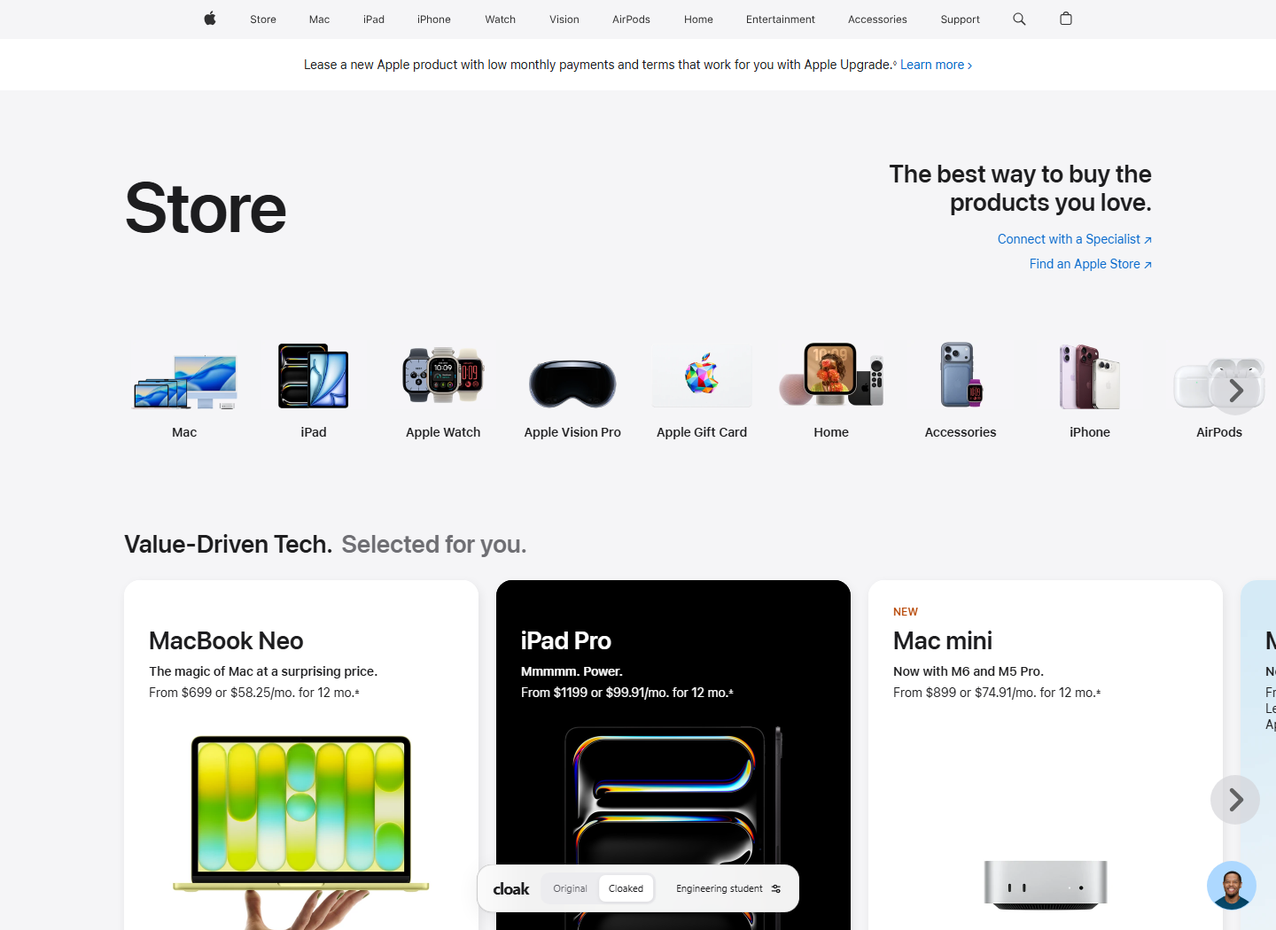
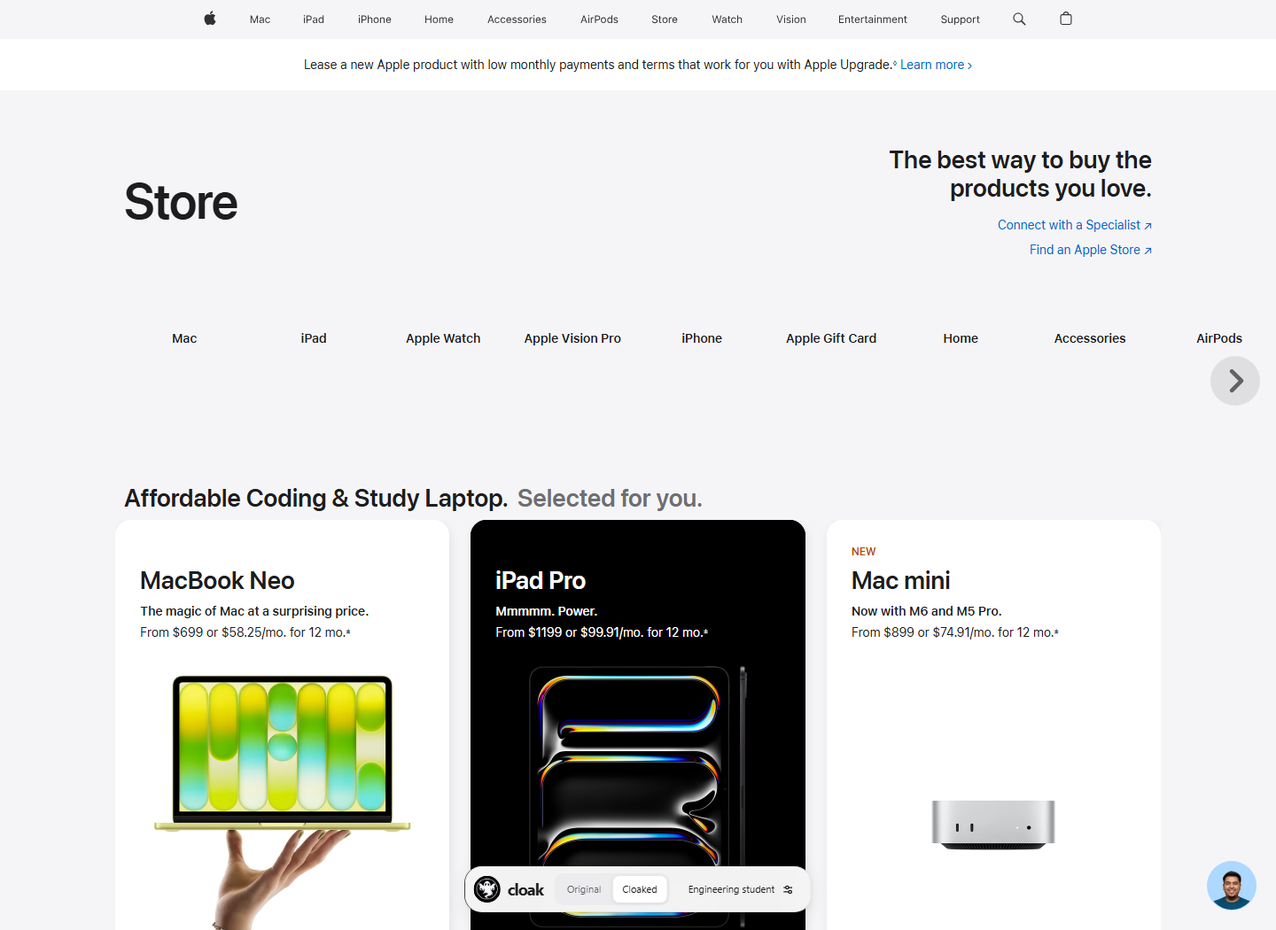
fix: restore native paging and verify adaptive layout geometry

diff --git a/tests/journeys.ts b/tests/journeys.ts
@@ -18,15 +18,21 @@ async function action(payload: any, wait = true) {
   assert.equal(response.status, 200, await response.text()); if (wait) await settled(); else await app.browser.update();
 }
 const layout = (page: Page) => page.evaluate(() => { const d = (window as any).__cloak.diagnostics(); delete d.engine; return d; });
+const gridGeometry = (page: Page) => page.locator('[data-cloak-grid]').evaluateAll(grids => grids.filter(grid => grid.getBoundingClientRect().height > 0 && getComputedStyle(grid).display !== 'none' && !grid.closest('[hidden]')).map(grid => {
+  const parent = grid.getBoundingClientRect();
+  return { columns: getComputedStyle(grid).gridTemplateColumns.split(/\s+/).length, left: parent.left, right: parent.right, cards: Array.from(grid.querySelectorAll(':scope > [data-cloak-griditem]')).filter(node => !node.hasAttribute('hidden') && getComputedStyle(node).display !== 'none').map(node => { const box = node.getBoundingClientRect(); return { left: box.left, right: box.right, top: box.top, width: box.width, height: box.height }; }) };
+}));
 const report: any[] = [];
 try {
   await app.browser.open('apple'); await settled();
   const page = app.browser.page!; await page.setViewportSize({ width: 1440, height: 1050 });
   const errors: string[] = []; page.on('pageerror', error => errors.push(error.message));
-  for (const [index, url] of ['https://www.apple.com/', 'https://www.apple.com/mac/', 'https://www.apple.com/iphone/', 'https://www.apple.com/macbook-air/', 'https://support.apple.com/', 'https://www.apple.com/accessibility/'].entries()) {
+  const journeyUrls = process.env.CLOAK_JOURNEY_URL ? [process.env.CLOAK_JOURNEY_URL] : ['https://www.apple.com/', 'https://www.apple.com/mac/', 'https://www.apple.com/iphone/', 'https://www.apple.com/macbook-air/', 'https://support.apple.com/', 'https://www.apple.com/accessibility/'];
+  for (const [index, url] of journeyUrls.entries()) {
     await action({ type: 'toggle', enabled: false }, false);
     await page.goto(url, { waitUntil: 'domcontentloaded' }); await app.browser.read(page); await settled();
     assert.equal(await page.locator('#cloak-controls').count(), 1);
+    await until(() => page.locator('#cloak-controls #brand-logo').evaluate((node: HTMLImageElement) => !node.hidden && node.complete && node.naturalWidth > 0), 'provided Cloak logo');
     const original = await layout(page), inventory = app.browser.inventory!;
     assert.ok(inventory.groups!.length >= 2, `Discover native groups: ${url}`);
     await page.evaluate(() => {
@@ -35,11 +41,14 @@ try {
       win.__nativeLinks = Array.from(document.querySelectorAll<HTMLAnchorElement>('main a[href],[role=main] a[href]')).map(a => ({ href: a.href, text: a.textContent }));
       win.__sample = Array.from(document.querySelectorAll<HTMLElement>('main p,[role=main] p')).find(n => { const size = parseFloat(getComputedStyle(n).fontSize); return size >= 12 && size <= 24 && n.textContent!.length > 8 && !n.closest('nav,[hidden]'); });
       win.__sampleSize = win.__sample ? parseFloat(getComputedStyle(win.__sample).fontSize) : null;
+      win.__originalDocumentWidth = document.documentElement.scrollWidth;
     });
     const profiles: any[] = [];
     for (const id of ['engineer', 'grandma']) {
       await action({ type: 'profile', id }); await action({ type: 'toggle', enabled: true });
       const plan = structuredClone(app.state().plan!), actual = await layout(page);
+      assert.equal(plan.presentation?.layout, id === 'grandma' ? 'guided' : 'compare', `Needs determine layout strategy: ${url}`);
+      assert.equal(actual.layout, plan.presentation!.layout, `Layout is applied to the actual page: ${url}`);
       assert.ok(actual.connected, 'All native registered nodes retain identity');
       for (const group of inventory.groups!) {
         const order = group.type === 'sections' ? plan.sectionOrder : group.type === 'categories' ? plan.categoryOrder : plan.sectionOrder.flatMap(id => plan.itemOrders[id]);
@@ -47,11 +56,21 @@ try {
       }
       assert.notDeepEqual(actual.groups, original.groups, `Page visibly restructures for ${id}: ${url}`);
       assert.equal(await page.evaluate(() => (window as any).__nativeSections.every((n: Node) => n.isConnected)), true);
+      const desktopGeometry = await gridGeometry(page);
+      if (inventory.groups!.some(group => group.type === 'items')) {
+        assert.ok(actual.grids > 0 && desktopGeometry.length > 0, `Native cards form actual visible grids: ${url}`);
+        assert.ok(desktopGeometry.some(grid => grid.columns === (id === 'grandma' ? 2 : 3) && grid.cards.length >= 2), `Native card geometry follows the selected layout: ${url}`);
+        for (const grid of desktopGeometry) for (const card of grid.cards) {
+          assert.ok(card.width > 40 && card.height > 0, `Native cards retain visible geometry: ${url}`);
+          assert.ok(card.left >= grid.left - 2 && card.right <= grid.right + 2, `Cards fit their native grid: ${url}`);
+        }
+      }
+      assert.ok(await page.evaluate(() => document.documentElement.scrollWidth <= Math.max(window.innerWidth, (window as any).__originalDocumentWidth) + 1), `Personalization adds no document overflow: ${url}`);
       if (id === 'grandma') {
-        assert.deepEqual(plan.presentation, { reading: 'larger', density: 'focused' });
+        assert.deepEqual(plan.presentation, { reading: 'larger', density: 'focused', layout: 'guided', maxVisible: 2 });
         const size = await page.evaluate(() => { const w = window as any; return !w.__sample || parseFloat(getComputedStyle(w.__sample).fontSize) > w.__sampleSize; });
         assert.ok(size, `Larger body copy: ${url}`);
-        const disclosure = page.locator('[data-cloak-disclosure] button').first();
+        const disclosure = page.locator('[data-cloak-disclosure] button').filter({ visible: true }).first();
         if (await disclosure.count()) {
           const before = await page.locator('[hidden]').count(); await disclosure.click();
           assert.equal(await disclosure.getAttribute('aria-expanded'), 'true');
@@ -63,24 +82,32 @@ try {
           assert.equal(await page.getByRole('tab', { name: /^Laptops\b/ }).getAttribute('aria-selected'), 'true', 'Native product tabs work');
           await page.getByRole('tab', { name: /^All products\b/ }).click();
           const gallery = page.locator('div[class*="StickyFooterGallery_gallery__"]').filter({ visible: true }).first();
-          const viewport = gallery.locator('[data-rsc-scrollable]');
-          await gallery.getByRole('button', { name: /^Next/ }).click();
-          await until(async () => await viewport.evaluate(node => node.scrollLeft) > 20, 'native Mac lineup next button');
-          await page.waitForTimeout(700);
-          const scrolled = await viewport.evaluate(node => node.scrollLeft);
-          await gallery.getByRole('button', { name: /^Previous/ }).click();
-          await until(async () => await viewport.evaluate(node => node.scrollLeft) < scrolled, 'native Mac lineup previous button');
+          if (await gallery.locator('[data-cloak-grid]').count()) {
+            assert.equal(await gallery.getByRole('button', { name: /^Next/ }).isVisible(), false, 'Native paging is hidden while product choices form a grid');
+            assert.ok(await gallery.locator('[data-cloak-griditem]').count() >= 2, 'Native product choices remain in the layout');
+          }
         }
       }
       await page.evaluate(() => window.scrollTo(0, 0));
       await page.screenshot({ path: `work/apple-${index}-${id}.png` });
       if (url.includes('/macbook-air/')) {
         const continuity = inventory.sections.find(section => section.title === 'Continuity')!;
+        if (!await page.locator('.section-continuity').isVisible()) {
+          const moreSections = page.getByRole('button', { name: /^Explore \d+ more sections$/ }).filter({ visible: true });
+          if (await moreSections.count()) await moreSections.first().click();
+        }
         await page.evaluate(id => (window as any).__cloak.find(id), continuity.id);
         await until(() => page.locator('.section-continuity picture').first().locator('img').evaluate((node: HTMLImageElement) => node.naturalWidth > 10 && !node.currentSrc.startsWith('data:')), 'native images load at their personalized location');
         await page.screenshot({ path: `work/apple-${index}-${id}-content.png` });
       }
-      profiles.push({ id, sections: plan.sectionOrder, groups: actual.groups, presentation: plan.presentation });
+      if (id === 'grandma' && desktopGeometry.length && ['https://www.apple.com/', 'https://www.apple.com/mac/', 'https://support.apple.com/'].includes(url)) {
+        await page.setViewportSize({ width: 390, height: 900 });
+        const mobileGeometry = await gridGeometry(page);
+        assert.ok(mobileGeometry.length > 0 && mobileGeometry.every(grid => grid.columns === 1), `Personalized native cards become one column on mobile: ${url}`);
+        for (const grid of mobileGeometry) for (const card of grid.cards) assert.ok(card.left >= -1 && card.right <= 391, `Native mobile cards fit the screen: ${url}`);
+        await page.setViewportSize({ width: 1440, height: 1050 });
+      }
+      profiles.push({ id, sections: plan.sectionOrder, groups: actual.groups, presentation: plan.presentation, geometry: desktopGeometry });
       await action({ type: 'toggle', enabled: false }, false);
       assert.deepEqual((await layout(page)).groups, original.groups, 'Exact original ordering after every profile');
       const linksRetained = await page.evaluate(() => {
@@ -88,6 +115,33 @@ try {
         return (window as any).__nativeLinks.every((old: any) => current.some(n => n.href === old.href && n.textContent === old.text));
       }); assert.ok(linksRetained, `Native links and copy preserved: ${url}`);
       assert.equal(await page.locator('[data-cloak-disclosure]').count(), 0);
+      assert.equal(await page.locator('[data-cloak-grid]').count(), 0, 'Original removes all transformed card grids');
+      if (id === 'grandma' && url === 'https://www.apple.com/mac/') {
+        // Apple defers the offscreen sticky footer with content-visibility. Visit
+        // the native gallery before looking for its accessible paging controls.
+        await page.locator('div[class*="StickyFooterGallery_gallery__"]').filter({ has: page.locator('button[aria-label^="Next"]') }).first().scrollIntoViewIfNeeded();
+        const gallery = page.locator('div[class*="StickyFooterGallery_gallery__"]').filter({ has: page.getByRole('button', { name: /^Next/ }) }).first();
+        try { await until(async () => await gallery.count() > 0, 'restored native Mac gallery exposes its paging controls', 5000); }
+        catch (error) {
+          await page.screenshot({ path: 'work/mac-restore-failure.png', fullPage: false });
+          await writeFile('work/mac-restore-failure.json', JSON.stringify(await page.evaluate(() => ({
+            scroll: window.scrollY,
+            tabs: Array.from(document.querySelectorAll('[role="tab"]')).map(node => ({ label: node.textContent, selected: node.getAttribute('aria-selected'), attrs: node.outerHTML.slice(0, 500) })),
+            galleries: Array.from(document.querySelectorAll('div[class*="StickyFooterGallery_gallery__"]')).map(node => ({
+              attrs: Array.from(node.attributes).map(attr => [attr.name, attr.value]),
+              box: { top: node.getBoundingClientRect().top, height: node.getBoundingClientRect().height },
+              ancestors: Array.from((function* () { let p = node.parentElement; for (let i = 0; p && i < 5; i++, p = p.parentElement) yield p; })()).map(parent => ({ tag: parent.tagName, class: parent.className, hidden: parent.hidden, ariaHidden: parent.getAttribute('aria-hidden'), display: getComputedStyle(parent).display })),
+              buttons: Array.from(node.querySelectorAll('button')).map(button => ({ label: button.getAttribute('aria-label'), attrs: Array.from(button.attributes).map(attr => [attr.name, attr.value]), display: getComputedStyle(button).display, visibility: getComputedStyle(button).visibility, box: { width: button.getBoundingClientRect().width, height: button.getBoundingClientRect().height }, ancestors: Array.from((function* () { let p = button.parentElement; for (let i = 0; p && i < 5; i++, p = p.parentElement) yield p; })()).map(parent => ({ attrs: Array.from(parent.attributes).map(attr => [attr.name, attr.value]), display: getComputedStyle(parent).display, visibility: getComputedStyle(parent).visibility, contentVisibility: getComputedStyle(parent).contentVisibility, box: { width: parent.getBoundingClientRect().width, height: parent.getBoundingClientRect().height } })) }))
+            }))
+          })), null, 2)); throw error;
+        }
+        const viewport = gallery.locator('[data-rsc-scrollable]');
+        await gallery.getByRole('button', { name: /^Next/ }).click();
+        await until(async () => await viewport.evaluate(node => node.scrollLeft) > 20, 'restored native Mac lineup next button');
+        await page.waitForTimeout(700); const scrolled = await viewport.evaluate(node => node.scrollLeft);
+        await gallery.getByRole('button', { name: /^Previous/ }).click();
+        await until(async () => await viewport.evaluate(node => node.scrollLeft) < scrolled, 'restored native Mac lineup previous button');
+      }
     }
     assert.notDeepEqual(profiles[0].groups, profiles[1].groups, 'Different people produce different native layouts');
     report.push({ url, items: inventory.items.length, groups: inventory.groups!.length, profiles });

diff --git a/src/engine/dom.ts b/src/engine/dom.ts
@@ -123,7 +123,7 @@ export function installDomEngine() {
     const mode = options?.layout || 'balanced';
     const columns = mode === 'guided' ? 2 : mode === 'balanced' ? 2 : 3;
     layoutStyle = document.createElement('style'); layoutStyle.dataset.cloakLayoutStyle = 'true';
-    layoutStyle.textContent = `[data-cloak-grid]{display:grid!important;grid-template-columns:repeat(var(--cloak-columns,3),minmax(0,1fr))!important;grid-template-areas:none!important;grid-template-rows:none!important;grid-auto-flow:row!important;grid-auto-columns:minmax(0,1fr)!important;grid-auto-rows:auto!important;gap:24px!important;align-items:stretch!important;transform:none!important;width:100%!important;min-width:0!important;max-width:none!important;overflow:visible!important;list-style:none!important;padding:0!important;margin:0!important;scroll-snap-type:none!important}[data-cloak-grid]>*{grid-column:auto!important;grid-row:auto!important}[data-cloak-griditem]{width:100%!important;max-width:none!important;min-width:0!important;flex:none!important;margin:0!important;transform:none!important;position:relative!important;left:auto!important;right:auto!important;top:auto!important;bottom:auto!important;grid-column:auto!important;grid-row:auto!important;order:0!important;scroll-snap-align:none!important}[data-cloak-griditem][hidden]{display:none!important}[data-cloak-featured]{grid-column:span 2!important}[data-cloak-griditem]>.rf-cards-scroller-itemview{transform:none!important;margin:0!important;padding:0!important;box-sizing:border-box!important}[data-cloak-griditem]>.rf-cards-scroller-itemview,[data-cloak-griditem] .rf-ccard,[data-cloak-griditem] .rf-recommcard{width:100%!important;max-width:none!important;min-width:0!important}[data-cloak-griditem] .rf-ccard-content{width:100%!important;box-sizing:border-box!important}[data-cloak-griditem] .rf-ccard-img-wrapper{width:100%!important}[data-cloak-griditem] .rf-ccard-img{left:50%!important;transform:translateX(-50%)!important}[data-cloak-layout=guided] [data-cloak-griditem] .rf-ccard{min-height:500px!important}@media(max-width:1000px){[data-cloak-grid]{grid-template-columns:repeat(2,minmax(0,1fr))!important;gap:18px!important}}@media(max-width:700px){[data-cloak-grid]{grid-template-columns:minmax(0,1fr)!important;gap:16px!important}[data-cloak-featured]{grid-column:auto!important}[data-cloak-layout-root]{width:calc(100% - 36px)!important}}`;
+    layoutStyle.textContent = `[data-cloak-grid]{display:grid!important;grid-template-columns:repeat(var(--cloak-columns,3),minmax(0,1fr))!important;grid-template-areas:none!important;grid-template-rows:none!important;grid-auto-flow:row!important;grid-auto-columns:minmax(0,1fr)!important;grid-auto-rows:auto!important;gap:24px!important;align-items:stretch!important;transform:none!important;width:100%!important;min-width:0!important;max-width:none!important;overflow:visible!important;list-style:none!important;padding:0!important;margin:0!important;scroll-snap-type:none!important}[data-cloak-grid]>*{grid-column:auto!important;grid-row:auto!important}[data-cloak-griditem]{width:100%!important;max-width:none!important;min-width:0!important;flex:none!important;margin:0!important;transform:none!important;position:relative!important;left:auto!important;right:auto!important;top:auto!important;bottom:auto!important;grid-column:auto!important;grid-row:auto!important;order:0!important;scroll-snap-align:none!important}[data-cloak-griditem][hidden]{display:none!important}[data-cloak-featured]{grid-column:span 2!important}[data-cloak-griditem]>.rf-cards-scroller-itemview{transform:none!important;margin:0!important;padding:0!important;box-sizing:border-box!important}[data-cloak-griditem]>.rf-cards-scroller-itemview,[data-cloak-griditem] .rf-ccard,[data-cloak-griditem] .rf-recommcard{width:100%!important;max-width:none!important;min-width:0!important}[data-cloak-griditem] .rf-ccard-content{width:100%!important;box-sizing:border-box!important}[data-cloak-griditem] .rf-ccard-img-wrapper{width:100%!important}[data-cloak-griditem] .rf-ccard-img{left:50%!important;transform:translateX(-50%)!important}[data-cloak-layout=guided] [data-cloak-griditem] .rf-ccard{min-height:500px!important}[data-cloak-layout] .rs-productnav-cardsshelf .rf-productnav-card{max-height:54px!important;contain:none!important;content-visibility:visible!important}[data-cloak-layout=guided] .rs-productnav-cardsshelf .rf-productnav-card{max-height:108px!important}@media(max-width:1000px){[data-cloak-grid]{grid-template-columns:repeat(2,minmax(0,1fr))!important;gap:18px!important}}@media(max-width:700px){[data-cloak-grid]{grid-template-columns:minmax(0,1fr)!important;gap:16px!important}[data-cloak-featured]{grid-column:auto!important}[data-cloak-layout-root]{--cloak-gutter:36px!important}}`;
     document.head.append(layoutStyle); mark(config.main, 'data-cloak-layout', mode);
     // Keep the native page title/navigation, with the compact spacing Apple uses
     // on its product pages so useful content occupies the first screen.
@@ -146,12 +146,12 @@ export function installDomEngine() {
         nodes.forEach(node => {
           style(node, { width: mode === 'guided' ? '112px' : 'auto', height: 'auto', flex: '0 0 auto' });
           style(node.querySelector<HTMLElement>('.rf-cards-scroller-itemview'), { width: 'auto', margin: '0', padding: '0', transform: 'none' });
-          style(node.querySelector<HTMLElement>('.rf-productnav-card'), { width: 'auto', padding: '0' });
+          style(node.querySelector<HTMLElement>('.rf-productnav-card'), { width: 'auto', padding: '0', height: mode === 'guided' ? '108px' : '54px', 'aspect-ratio': 'auto' });
         });
         let ancestor = parent.parentElement;
         while (ancestor && ancestor !== shelf) { style(ancestor, { width: '100%', height: 'auto', 'min-height': '0', 'max-height': 'none', overflow: 'visible', padding: '0', transform: 'none' }); ancestor = ancestor.parentElement; }
         const root = parent.closest<HTMLElement>('.rf-cards-scroller');
-        if (root) { style(root, { width: 'calc(100% - 96px)', 'max-width': '1180px', 'margin-left': 'auto', 'margin-right': 'auto' }); root.querySelectorAll<HTMLElement>('button').forEach(node => style(node, { display: 'none' })); }
+        if (root) { style(root, { width: 'calc(100% - var(--cloak-gutter, 96px))', 'max-width': '1180px', 'margin-left': 'auto', 'margin-right': 'auto' }); root.querySelectorAll<HTMLElement>('button').forEach(node => style(node, { display: 'none' })); }
       });
     } else {
       config.main.querySelectorAll<HTMLElement>('[class*="PageHeader_container"]').forEach(node => style(node, { 'padding-top': '36px', 'padding-bottom': '28px' }));
@@ -164,7 +164,7 @@ export function installDomEngine() {
       if (mode === 'immersive' && group.nodes.length >= 3) mark(group.nodes[0], 'data-cloak-featured', 'true');
       const root = group.root || group.viewport || group.parent;
       mark(root, 'data-cloak-layout-root', 'true');
-      if (config.kind === 'store' || root !== group.parent) style(root, { 'width': 'calc(100% - 96px)', 'max-width': '1180px', 'margin-left': 'auto', 'margin-right': 'auto', 'overflow': 'visible', 'height': 'auto', 'padding-left': '0', 'padding-right': '0' });
+      if (config.kind === 'store' || root !== group.parent) style(root, { 'width': 'calc(100% - var(--cloak-gutter, 96px))', 'max-width': '1180px', 'margin-left': 'auto', 'margin-right': 'auto', 'overflow': 'visible', 'height': 'auto', 'padding-left': '0', 'padding-right': '0' });
       let ancestor = group.parent.parentElement;
       while (ancestor && ancestor !== root && ancestor !== config.main) { style(ancestor, { 'overflow': 'visible', 'width': '100%', 'max-width': 'none', 'height': 'auto', 'transform': 'none', 'padding-left': '0', 'padding-right': '0' }); ancestor = ancestor.parentElement; }
       if (group.viewport) style(group.viewport, { 'scroll-snap-type': 'none', 'overflow': 'visible', 'height': 'auto', 'transform': 'none', 'padding-left': '0', 'padding-right': '0' });
@@ -195,6 +195,20 @@ export function installDomEngine() {
       window.scrollTo({ left: savedWindow.x, top: savedWindow.y, behavior: 'instant' });
       active = false; scroll.clear();
       buttons.forEach((state, button) => { button.disabled = state.disabled; if (state.aria === null) button.removeAttribute('aria-disabled'); else button.setAttribute('aria-disabled', state.aria); }); buttons.clear();
+      // Native galleries measured a vertical grid while personalized. Restoring
+      // the horizontal list can change scrollWidth without changing the viewport
+      // width, which does not wake their ResizeObserver by itself.
+      window.dispatchEvent(new Event('resize'));
+      pagers.forEach(({ viewport }) => viewport.dispatchEvent(new Event('scroll')));
+      requestAnimationFrame(() => { if (!active) { window.dispatchEvent(new Event('resize')); pagers.forEach(({ viewport }) => viewport.dispatchEvent(new Event('scroll'))); } });
+      const restorePaging = () => {
+        if (active) return;
+        pagers.forEach(({ root, viewport }) => {
+          if (viewport.scrollWidth <= viewport.clientWidth + 2) return;
+          root.querySelectorAll<HTMLElement>('[class*="hidePaddles"]').forEach(node => Array.from(node.classList).filter(name => /hidePaddles/.test(name)).forEach(name => node.classList.remove(name)));
+        });
+      };
+      restorePaging(); requestAnimationFrame(restorePaging);
     }
   }
   function apply(operations: { group: string; order: string[] }[], labels: { id: string; text: string }[]) {

diff --git a/tests/integration.ts b/tests/integration.ts
@@ -20,12 +20,19 @@ async function action(payload: any) {
   assert.equal(app.state().error, ''); await app.browser.update();
 }
 async function layout(page: Page) { return page.evaluate(() => { const result = (window as any).__cloak.diagnostics(); delete result.engine; return result; }); }
+async function gridCards(page: Page, sectionIndex: number) {
+  return page.locator('.rs-cardsshelf').filter({ has: page.locator('.rs-cards-shelf-mainheader') }).nth(sectionIndex).locator('[data-cloak-grid] > [data-cloak-griditem]').evaluateAll(nodes => nodes.filter(node => getComputedStyle(node).display !== 'none').map(node => {
+    const native = node.querySelector('.rf-ccard,.rf-recommcard') || node, box = native.getBoundingClientRect();
+    return { width: box.width, top: box.top, left: box.left, right: box.right };
+  }));
+}
 try {
   const started = Date.now();
   await app.browser.open('apple');
   await waitFor(() => !app.state().busy, 'initial local plan');
   assert.equal(app.state().error, '');
   const page = app.browser.page!; await page.setViewportSize({ width: 1440, height: 1050 });
+  await waitFor(() => page.locator('#cloak-controls #brand-logo').evaluate((node: HTMLImageElement) => !node.hidden && node.complete && node.naturalWidth > 0), 'provided Cloak logo loads');
   const pageErrors: string[] = []; page.on('pageerror', error => pageErrors.push(error.message));
   const inventory = app.browser.inventory!;
   assert.ok(inventory.items.length >= 40, 'Extract actual product, accessory and content cards');
@@ -58,19 +65,25 @@ try {
   assert.ok(engineering.sections.indexOf(savings.id) <= 2, 'Verified education pricing is promoted for student needs');
   await page.waitForTimeout(600);
   await page.screenshot({ path: 'work/v2-engineering.png', fullPage: false });
-  console.log('Verified native section, category and product reordering. Testing carousel paging.');
-  // Test native next/previous behavior after moving complete carousel items.
+  console.log('Verified native section, category and product reordering. Testing comparison layout.');
+  assert.equal(engineerPlan.presentation?.layout, 'compare');
+  assert.equal(engineering.layout, 'compare');
   const primaryIndex = engineering.sections.indexOf(inventory.primarySectionId);
   const primary = page.locator('.rs-cardsshelf').filter({ has: page.locator('.rs-cards-shelf-mainheader') }).nth(primaryIndex);
-  const scroller = primary.locator('.rf-cards-scroller-content');
-  await primary.getByRole('button', { name: /Next/ }).click();
-  await waitFor(async () => (await scroller.evaluate(node => node.scrollLeft)) > 50, 'native Apple next button');
-  await page.waitForTimeout(600);
-  const nextLeft = await scroller.evaluate(node => node.scrollLeft);
-  await primary.getByRole('button', { name: /Previous/ }).click();
-  await waitFor(async () => (await scroller.evaluate(node => node.scrollLeft)) < nextLeft, 'native Apple previous button');
-  await page.waitForTimeout(600);
-  console.log('Verified native next and previous controls. Testing second profile.');
+  const comparisonCards = await gridCards(page, primaryIndex);
+  assert.ok(comparisonCards.length >= 4, 'Comparison displays at least four actual product cards');
+  assert.ok(Math.abs(comparisonCards[0].top - comparisonCards[2].top) < 2, 'Comparison places three native products side by side');
+  assert.ok(comparisonCards[3].top > comparisonCards[0].top + 100, 'Comparison creates an actual second row');
+  assert.ok(Math.abs(comparisonCards[0].width - comparisonCards[1].width) < 2, 'Comparison gives products equal visual weight');
+  assert.equal(await primary.getByRole('button', { name: /Next/ }).isVisible(), false, 'Horizontal paging is hidden while native cards form a grid');
+  const reveal = primary.locator('[data-cloak-disclosure] button').first();
+  const collapsedCount = comparisonCards.length;
+  await reveal.click();
+  assert.equal(await reveal.getAttribute('aria-expanded'), 'true');
+  assert.equal((await gridCards(page, primaryIndex)).length, inventory.sections.find(section => section.id === inventory.primarySectionId)!.itemIds.length, 'Disclosure reveals all retained native cards');
+  await reveal.click(); assert.equal((await gridCards(page, primaryIndex)).length, collapsedCount);
+  assert.ok(await page.evaluate(() => document.documentElement.scrollWidth <= window.innerWidth + 1), 'Personalized Store fits the desktop viewport');
+  console.log('Verified comparison grid and retained native cards. Testing second profile.');
   await page.getByRole('button', { name: 'Edit preferences' }).click();
   const audit = await new AxeBuilder({ page }).include('#cloak-controls').withTags(['wcag2a', 'wcag2aa', 'wcag21aa']).analyze();
   assert.deepEqual(audit.violations.map(v => ({ id: v.id, nodes: v.nodes.map(n => n.target) })), [], 'Compact controls accessibility');
@@ -79,6 +92,10 @@ try {
   assert.equal(app.state().error, ''); await app.browser.update();
   const creativePlan = structuredClone(app.state().plan!);
   const creative = await layout(page);
+  assert.equal(creativePlan.presentation?.layout, 'immersive');
+  assert.equal(creative.layout, 'immersive');
+  const creativeCards = await gridCards(page, creative.sections.indexOf(inventory.primarySectionId));
+  assert.ok(creativeCards.length >= 3 && creativeCards[0].width > creativeCards[1].width * 1.7, 'Creative layout gives the leading native product a dominant image-led card');
   assert.notDeepEqual(creative.sections, engineering.sections, 'Two people must produce different section hierarchies');
   assert.notDeepEqual(creative.itemOrders[inventory.primarySectionId].slice(0, 4), engineering.itemOrders[inventory.primarySectionId].slice(0, 4), 'Two people must produce different product collections');
   const creativeItems = creativePlan.collection.itemIds.map(id => inventory.items.find(item => item.id === id)!);
@@ -104,6 +121,17 @@ try {
     return (window as any).__originalLinks.filter(([_node, href, text]: [HTMLAnchorElement, string, string]) => !current.some(node => node.href === href && node.textContent === text)).map(([_node, href, text]: [HTMLAnchorElement, string, string]) => ({ href, text }));
   });
   assert.deepEqual(changedLinks, [], 'Every native link and product copy survives unchanged');
+  assert.equal(await page.locator('[data-cloak-grid],[data-cloak-disclosure]').count(), 0, 'Original removes layout grids and all Cloak disclosures');
+  // Native horizontal paging returns with the exact original website layout.
+  const originalPrimaryIndex = original.sections.indexOf(inventory.primarySectionId);
+  const originalPrimary = page.locator('.rs-cardsshelf').filter({ has: page.locator('.rs-cards-shelf-mainheader') }).nth(originalPrimaryIndex);
+  const scroller = originalPrimary.locator('.rf-cards-scroller-content');
+  await originalPrimary.getByRole('button', { name: /Next/ }).click();
+  await waitFor(async () => await scroller.evaluate(node => node.scrollLeft) > 50, 'restored native Apple next button');
+  await page.waitForTimeout(600); const nextLeft = await scroller.evaluate(node => node.scrollLeft);
+  await originalPrimary.getByRole('button', { name: /Previous/ }).click();
+  await waitFor(async () => await scroller.evaluate(node => node.scrollLeft) < nextLeft, 'restored native Apple previous button');
+  await page.waitForTimeout(600);
   for (let i = 0; i < 3; i++) { await action({ type: 'toggle', enabled: true }); await action({ type: 'toggle', enabled: false }); }
   assert.deepEqual((await layout(page)).itemOrders, original.itemOrders, 'Repeated apply/undo cycles restore the same native order');
   // Natural-language refinement is evaluated by the actual local LLM.
@@ -140,7 +168,7 @@ try {
   assert.equal(await page.locator('#cloak-controls').count(), 1);
   assert.equal(app.browser.inventory?.groups?.some(group => group.type === 'items' || group.type === 'sections'), false, 'Configuration choices keep their original order');
   assert.deepEqual(pageErrors, [], 'No native JavaScript errors after restructuring and interaction');
-  const report = { items: inventory.items.length, sections: inventory.sections.length, categories: inventory.categories.length, elapsedSeconds: Math.round((Date.now() - started) / 1000), engineering: { title: engineerPlan.intent.title, products: topItems.map(item => item.title), sections: engineerPlan.sectionOrder }, creative: { title: creativePlan.intent.title, products: creativeItems.map(item => item.title), sections: creativePlan.sectionOrder } };
+  const report = { items: inventory.items.length, sections: inventory.sections.length, categories: inventory.categories.length, elapsedSeconds: Math.round((Date.now() - started) / 1000), engineering: { title: engineerPlan.intent.title, products: topItems.map(item => item.title), sections: engineerPlan.sectionOrder, presentation: engineerPlan.presentation, geometry: comparisonCards }, creative: { title: creativePlan.intent.title, products: creativeItems.map(item => item.title), sections: creativePlan.sectionOrder, presentation: creativePlan.presentation, geometry: creativeCards } };
   await writeFile('work/v2-verification.json', JSON.stringify(report, null, 2));
   console.log('PASS real transformations:', JSON.stringify(report, null, 2));
 } finally {

diff --git a/src/server.ts b/src/server.ts
@@ -23,7 +23,7 @@ const planner = new LocalPlanner(path.join(root, '.cache'), () => broadcast());
 const browser = new BrowserManager(path.join(store.directory, 'browser'), state, action, rerank, broadcast);
 function state() {
   const currentPlan = plan && browser?.inventory && plan.inventoryKey === inventoryKey(browser.inventory) ? plan : null;
-  return { ...store.value, engineVersion: 3, model: model.status, modelName: MODEL, planner: planner.status, plannerName: PLANNER_MODEL, plan: currentPlan, ranked, busy, error, browser: { connected: !!browser?.page && !browser.page.isClosed(), url: browser?.url || '', site: browser?.site || '', count: browser?.stories.length || 0 } };
+  return { ...store.value, engineVersion: 4, model: model.status, modelName: MODEL, planner: planner.status, plannerName: PLANNER_MODEL, plan: currentPlan, ranked, busy, error, browser: { connected: !!browser?.page && !browser.page.isClosed(), url: browser?.url || '', site: browser?.site || '', count: browser?.stories.length || 0 } };
 }
 function broadcast() {
   const data = `data: ${JSON.stringify(state())}\n\n`;
